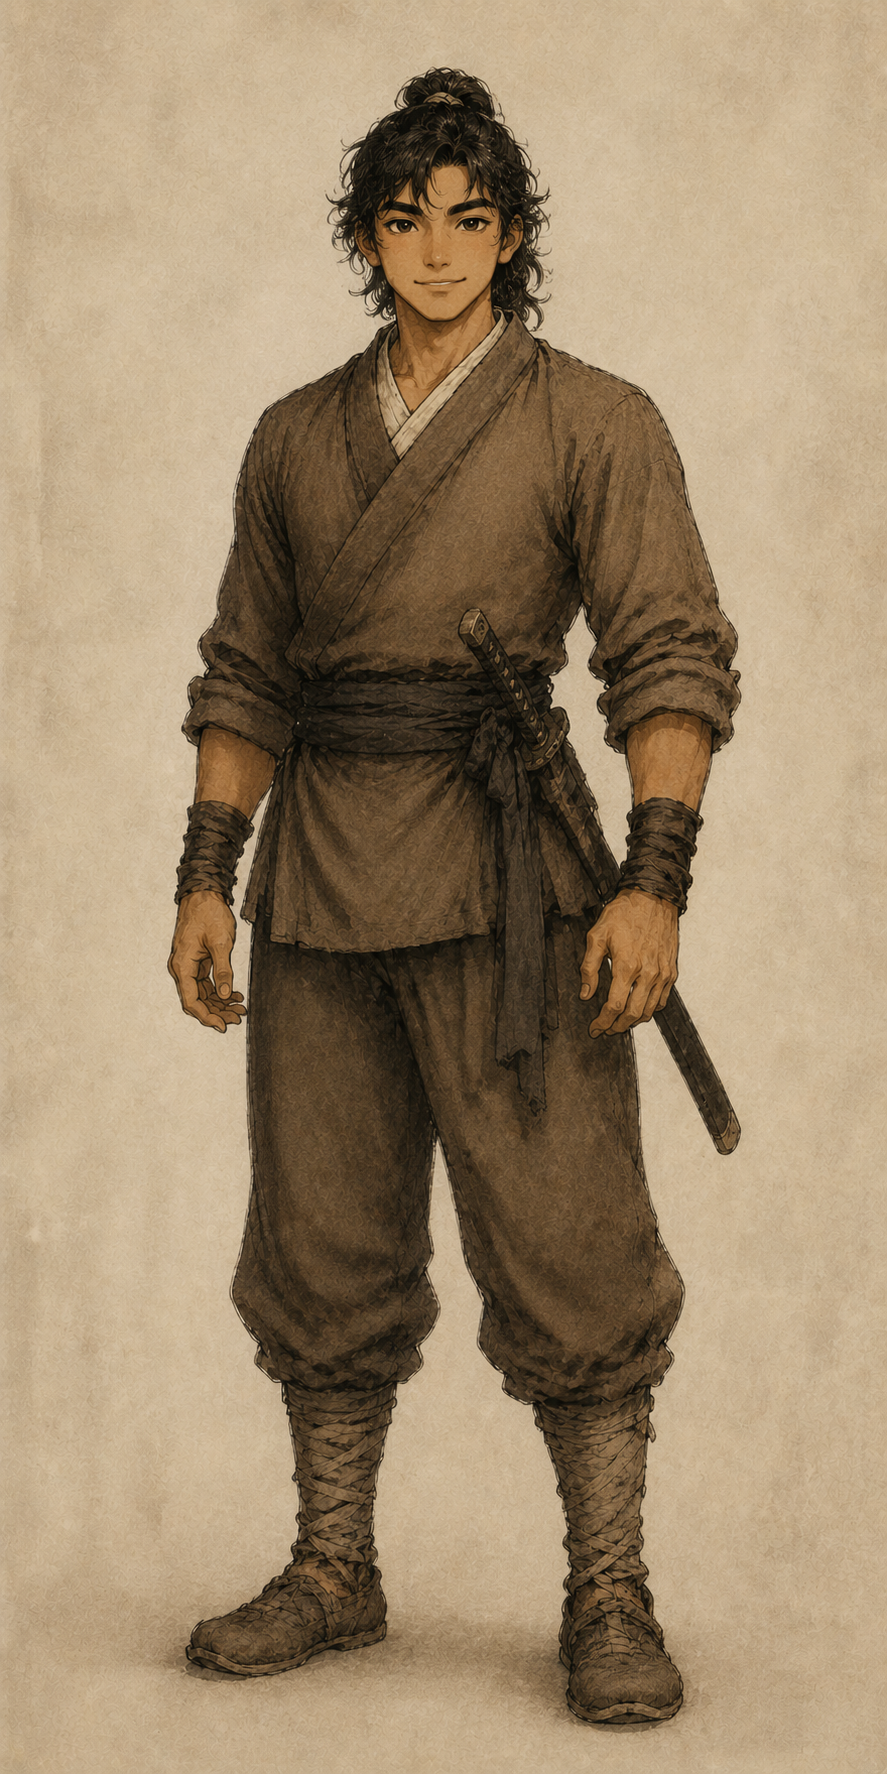
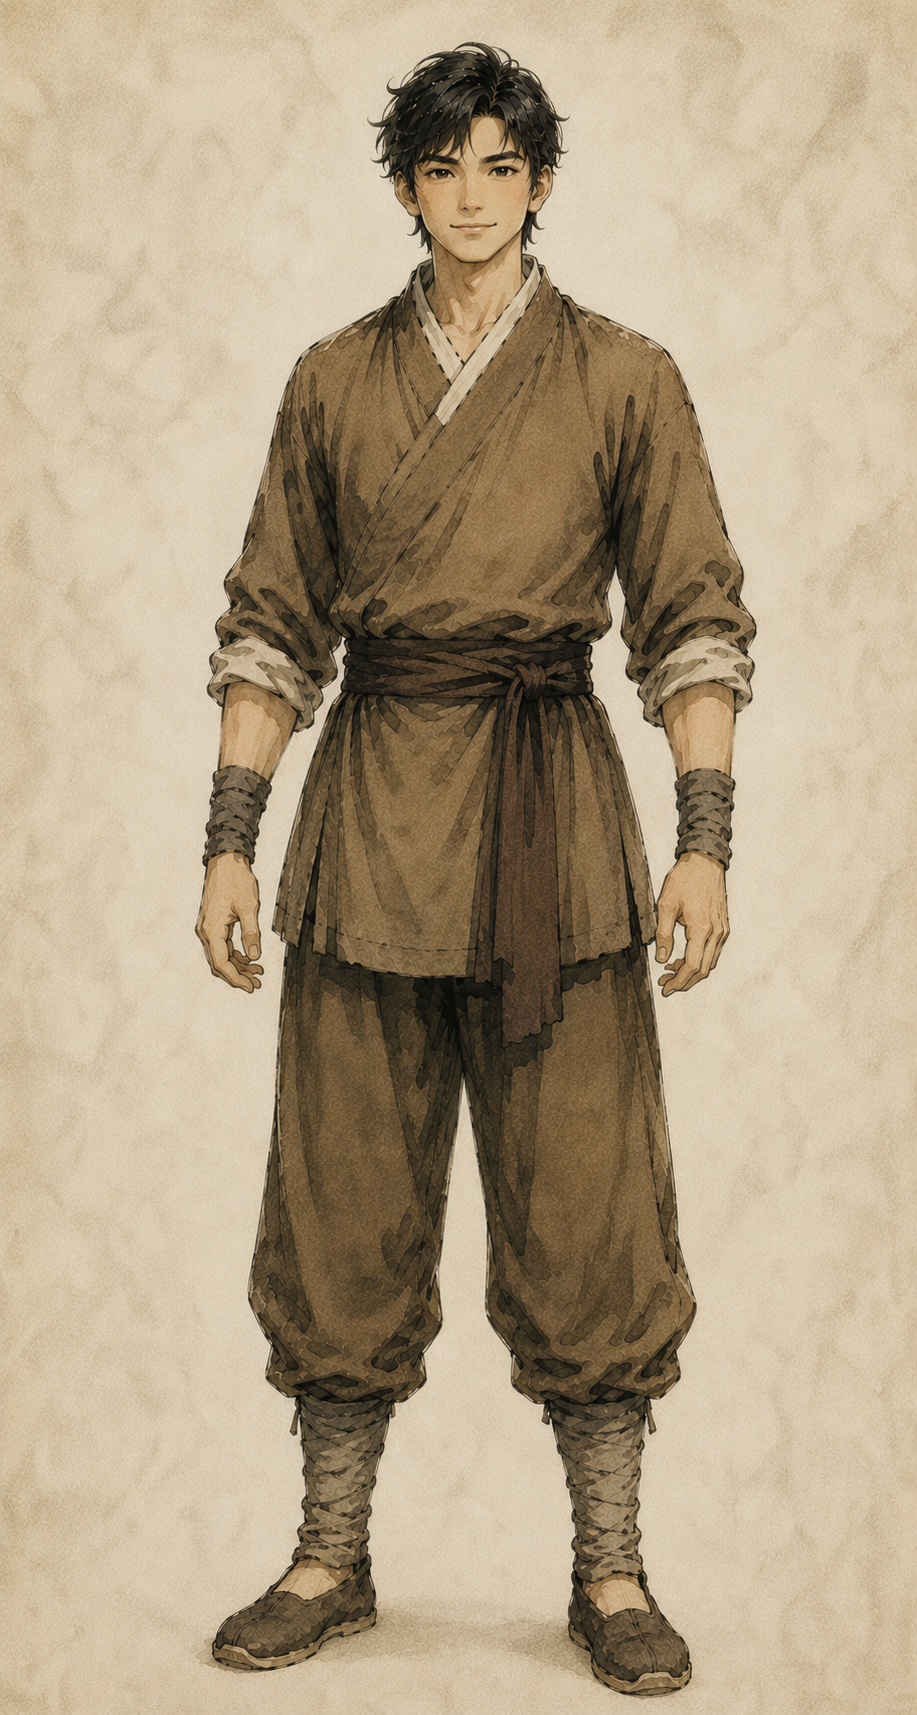
260624 :: 장철 일러스트 수묵담채 확정본 교체 + 무기 규칙 도입
장철 기준 전신·인게임 초상을 수묵담채(먹 베이스+은은한 채색) 흑백먹→채색
확정본으로 전면 교체(이전 수묵+웹툰 하이브리드 폐기). 9회 반복으로 확정:
우직+정직하되 수려한 동양(한국) 미남 · 자연 동양인 피부 · 약간 웨이브 흑발 ·
다부진 체격 · 전 연령 무기 없음.
- _ref/jang-cheol{,-child,-adult}.png (전신, 선택화면)
- disciples/jang-cheol{,-child,-adult}.png (상체 55% 크롭, 인게임)

무기 규칙(신규 확정): 기본 일러스트는 전 캐릭터·전 연령 무기 없이 맨손
(검·권·장 등 어떤 무공으로도 성장 → 무기 박으면 빌드 제약). 무기는 별도
전투 일러스트에서 무공 카테고리별로만. _캐릭터_시트.md·_프롬프트_장철.md
화풍을 수묵담채로 갱신 + 무기 규칙 명시. (정본 자산표/외형 잠금은 gitignore
docs/disciples 에 반영.)

코드 무변경(파일 경로 동일 — 이미지 내용만 교체). 컷씬은 세피아 유지.

Claude-Session: https://claude.ai/code/session_019qhCgnJo1uALTDYA7kb8Sk

diff --git a/assets/images/cutscenes/_캐릭터_시트.md b/assets/images/cutscenes/_캐릭터_시트.md
@@ -3,29 +3,47 @@
 > docs/20 컷씬 시스템. **같은 캐릭터는 어느 컷씬에서도 같은 사람으로 보여야 한다.**
 > 그 일관성은 두 겹으로 지킨다: ① 아래 외형 블록을 **글자 그대로** 모든 프롬프트에 붙여넣기 ② 기준 이미지 레퍼런스.
 
+## 🎨 화풍 — 수묵 + 담채(淡彩) (사용자 확정 2026-06-21)
+
+**먹빛 수묵 베이스 + 은은한 담채.** 완전 흑백·세피아 단색이 아니라, 먹빛 수묵을 바탕으로 **피부 혈색과 캐릭터별 시그니처 한 색만**(예: 장철=갈색 무명옷) 옅게 얹는다. 나머지는 먹빛 농담.
+→ 무협 정통 분위기·캐릭터 일관성(색 드리프트 최소)·기존 세피아 자산(배너·UI·완성 컷씬)과의 조화를 지키면서, 매력·캐릭터 구분을 얻는 절충. 풀컬러는 일관성 난이도·기존 자산 재작업 부담으로 불채택.
+→ 기존 세피아 자산은 담채와 결이 가까워 급한 재작업 불요(점진 갱신). 신규 생성부터 담채 적용.
+
 ## ⭐ 제1원칙 — 매력이 먼저다 (사용자 확정 2026-06-11)
 
 **모든 캐릭터는 한눈에 호감 가는 매력적인 외모(무협 웹툰풍 미형)로 그린다.**
 출신·성격 같은 개성은 **분위기·표정·소품·복장**으로 표현하고, 외모 자체를 수수하게·촌스럽게 깎지 않는다.
 (예: 장철 = 시골 출신이지만 "촌스러운 아이"가 아니라 "건강미 넘치는 서글서글한 미소년". 한바람의 흉터, 이청하의 창백함도 결점이 아니라 매력 포인트로.)
 
+## ⭐ 무기 규칙 — 기본은 무기 없음 (사용자 확정 2026-06-24)
+
+**기본 일러스트(기준 전신·턴어라운드·상체 크롭·표정·선택화면)는 전 캐릭터·전 연령 "무기 없이 맨손"으로 그린다.** 한 캐릭터가 검·도·권·장·암기 등 **어떤 무공 카테고리로도 성장**할 수 있어, 기본 그림에 무기를 박으면 빌드가 제약된다. **무기는 별도 "전투 일러스트"에서 무공 카테고리별로만**(검·도·권·장·암기 …, 그 캐릭터가 실제 쓰는 카테고리만) 그린다. 정본 자산표·코드연결 = [`docs/disciples/_캐릭터_추가_체크리스트.md` §4](../../../docs/disciples/_캐릭터_추가_체크리스트.md).
+
 ## 일관성 워크플로 (이 순서로)
 
-1. **기준 전신 1장부터** — 컷씬을 그리기 전에, 캐릭터마다 "기준 전신 일러스트" 1장을 먼저 뽑는다(아래 §기준 전신 프롬프트). 얼굴·체형·복장이 마음에 들 때까지 이 1장만 반복.
-2. **모든 컷씬은 기준 이미지를 레퍼런스로** — 이미지 AI의 캐릭터 레퍼런스/이미지 참조 기능에 기준 전신 1장을 첨부하고, 프롬프트에는 같은 외형 블록을 다시 붙인다. 프롬프트만으로는 얼굴이 매번 흔들린다 — 레퍼런스가 진짜 고정핀.
-3. **외형 블록은 수정 금지** — 장면(배경·동작)만 바꾸고 외형 문단은 한 글자도 안 바꾼다. 외형을 바꾸고 싶으면 이 시트를 먼저 고치고, 기준 전신부터 다시.
-4. 기준 전신 파일은 `assets/images/cutscenes/_ref/<discipleId>.png` 로 저장(이미지 자동배치 룰 — 던져주면 정리됨).
+1. **기준 턴어라운드 시트(4방향)부터** ⭐ (2026-06-21 격상) — 컷씬·표정을 그리기 전에, 캐릭터마다 "턴어라운드 기준 시트" 1장을 먼저 뽑는다: **같은 인물을 똑같은 키·비율·복장·머리로 ① 정면 ② 좌측면 ③ 후면 ④ 우측면** 네 방향 전신을 한 장에 나란히. 앞모습 한 장보다 4방향 시트가 훨씬 강한 고정핀 — 옆·뒤 구도 컷씬에서도 같은 사람으로 유지된다. 얼굴·체형·복장이 마음에 들 때까지 이 시트만 반복. 저장: `_ref/<id>-turnaround.png`.
+2. **모든 컷씬·표정은 턴어라운드 시트를 레퍼런스로** — 이미지 AI의 캐릭터 레퍼런스/이미지 참조 기능에 턴어라운드 시트를 첨부하고(필요하면 그 장면 방향에 맞는 뷰도), 프롬프트엔 같은 외형 블록을 다시 붙인다. 프롬프트만으로는 얼굴이 매번 흔들린다 — 레퍼런스가 진짜 고정핀.
+3. **외형 블록은 수정 금지** — 장면(배경·동작)만 바꾸고 외형 문단은 한 글자도 안 바꾼다. 외형을 바꾸고 싶으면 이 시트를 먼저 고치고, 턴어라운드부터 다시.
+4. 기준 파일은 `assets/images/cutscenes/_ref/` 에 저장: 턴어라운드 `<id>-turnaround.png`(나이별 `-child`/`-adult` 접미), 단면 전신 `<id>.png`(인앱 초상 겸용). 던져주면 정리됨(이미지 자동배치 룰).
+   - (기존 4인의 단면 전신 `_ref/<id>.png`은 인앱 초상으로 계속 사용 — 턴어라운드는 *생성 레퍼런스 전용* 추가 앵커. 장철부터 턴어라운드 도입.)
 
 ## 공통 스타일 블록 (모든 프롬프트 맨 앞에)
 
-> 정통 무협 수묵화 일러스트, 무협 웹툰풍의 수려한 인물 작화. 낡은 한지 질감 배경, 세피아 먹빛 단색조, 옅은 안개와 여백. 인물의 얼굴은 또렷하고 매력적으로. 화면에 글자·한자·낙관·서명 없음. **세로 구도 9:16 — 쇼츠식 풀스크린**(인물 위쪽 3분의 2, 아래 3분의 1은 안개·여백으로 비워 앱 자막 자리).
+> 정통 무협 수묵화 일러스트, 무협 웹툰풍의 수려한 인물 작화. 낡은 한지 질감 배경, 먹빛 수묵 베이스에 은은한 담채(淡彩) — 피부 혈색과 캐릭터 시그니처 한 색만 옅게, 나머지는 먹빛 농담. 옅은 안개와 여백. 인물의 얼굴은 또렷하고 매력적으로. 화면에 글자·한자·낙관·서명 없음. **세로 구도 9:16 — 쇼츠식 풀스크린**(인물 위쪽 3분의 2, 아래 3분의 1은 안개·여백으로 비워 앱 자막 자리).
 
 ✅ **컷씬은 세로 9:16**(사용자 확정 2026-06-12 · 재확인 2026-06-14 "컷씬은 세로로"). 종전 "가로 16:10"은 폐기 — 깨달음 가로판만 레거시 보관. 기준 전신도 세로(전신 입상·배경 비움).
 **구도 안전선**: 얼굴·핵심 소품은 화면 정중앙 기준 가로·세로 모두 가운데 3분의 1 안에(폰은 좌우, 태블릿은 위아래가 잘림). 자세한 규칙은 장철 프롬프트 파일 §공통 규칙.
 
-## 진행 순서 (갱신 2026-06-14)
+## 진행 순서 (갱신 2026-06-21 — 한 캐릭터 완성 우선)
 
-장철 파일럿(깨달음·장원 컷씬까지) 확정 → **이제 9인 3단계 기준 전신 제작 단계**(사용자 지정 2026-06-14). 9인 × 유년·청소년·성년 프롬프트는 **`_프롬프트_기준전신_9인.md`**(매력 제1원칙 전원 적용, 청소년 먼저→유년·성년 ref). 컷씬 횡전개(깨달음 등)는 9인 기준 전신 확정 후. 여러 캐릭터 **컷씬** 프롬프트 동시 진행은 금지(얼굴 섞임) — 기준 전신은 독립이라 9인 묶음 OK.
+**한 캐릭터를 끝까지 완성하고 다음으로**(사용자 2026-06-21, 이미지 일관성 때문에). 옛 "9인 3단계 기준 전신 동시 제작"(2026-06-14, `_프롬프트_기준전신_9인.md`) 계획은 보류 — 캐릭터를 오가면 얼굴이 섞인다.
+
+**현재 대상 = 장철 완성**(화풍 수묵+담채). 순서:
+1. **청소년 턴어라운드 시트**(앞·왼·뒤·오른쪽 4방향, `_프롬프트_장철.md` T-1) — 1순위 앵커.
+2. 유년·성인 턴어라운드(T-2·T-3, 청소년 시트 참조).
+3. 감정 표정 세트 4종(웃음·울음·분노·슬픔).
+4. 남은 컷씬 이미지(영약 영상부터 — 프롬프트 8종 다 작성됨).
+→ 2~4 전부 턴어라운드 시트를 레퍼런스로 첨부. 장철 완성 후 같은 순서로 다음 캐릭터.
 
 ## 연령 3단계 — 유년·청소년·성인 (사용자 확정 2026-06-11)
 

diff --git a/assets/images/cutscenes/_프롬프트_장철.md b/assets/images/cutscenes/_프롬프트_장철.md
@@ -30,9 +30,31 @@
 
 ---
 
-# 기준 전신 3종 — ✅ 전부 확정 (2026-06-12)
+# 기준 턴어라운드 시트(4방향) — ⭐ 최우선 앵커 (2026-06-21 도입, 화풍=수묵+담채)
 
-`_ref/jang-cheol-child.png`(유년) · `_ref/jang-cheol.png`(청소년) · `_ref/jang-cheol-adult.png`(성인). 확정 디테일: 풍성한 곱슬 머리 + 손목·발목 천 감개, 성인은 허리에 도(刀). 재생성이 필요해지면 `_캐릭터_시트.md`의 기준 전신 프롬프트 패턴 사용.
+> 일관성 1순위 작업. 앞모습 한 장(_ref/jang-cheol.png)보다 **앞·왼·뒤·오른쪽 4방향 시트**가 훨씬 강한 고정핀 — 옆·뒤 구도 컷씬에서도 같은 사람으로 유지된다. 이 시트를 모든 컷씬·표정 생성의 레퍼런스로 첨부한다.
+> ⚠ 이건 **생성 레퍼런스 전용 도구**라 9:16이 아니라 **가로로 긴 시트**(인게임 화면 자산 아님). 저장: `_ref/jang-cheol-turnaround.png`.
+> 순서: **청소년부터** 확정 → 유년·성인은 청소년 턴어라운드를 레퍼런스로 "같은 인물의 N세 모습"으로 (`-child`/`-adult` 접미).
+
+### T-1. 청소년 턴어라운드 — `_ref/jang-cheol-turnaround.png`
+
+정통 무협 수묵화 일러스트, 무협 웹툰풍의 수려한 인물 작화. 낡은 한지 질감 배경, 먹빛 수묵 베이스에 은은한 담채(淡彩) — 피부 혈색과 갈색 무명옷에만 옅은 색, 나머지는 먹빛 농담. 한 인물의 캐릭터 기준 시트(턴어라운드): 똑같은 인물을 같은 키·같은 비율·같은 복장·같은 머리모양으로 **네 방향에서 그린 전신 입상 네 컷을 가로로 나란히** — 왼쪽부터 ① 정면 ② 좌측면(왼쪽 옆모습) ③ 후면(뒷모습) ④ 우측면(오른쪽 옆모습). 네 컷 모두 **같은 자연스러운 차렷 자세**(팔을 몸에서 살짝 떨어뜨려 두 손이 보이게), 같은 눈높이, 같은 균일한 조명. 건강한 구릿빛 피부에 어깨가 단단한, 훤칠하고 다부진 십대 중반 미소년 무인. 어깨에 닿을 듯 풍성한 곱슬 까만 머리 아래 짙은 눈썹과 서글서글한 큰 눈, 사람 좋게 시원한 미소. 크고 단단한 손. 소박하지만 깔끔하게 손질된 갈색 무명 무복, 손목과 발목에 천을 감았다. 머리부터 발끝까지 전신이 잘리지 않게, 네 인물 사이 간격을 두고. 배경은 한지 여백으로 비워 인물만, 그림자·배경 사물 없음. 가로로 긴 구도(네 컷이 한 줄에 다 들어가게). 얼굴은 또렷하고 매력적으로. 화면에 글자·한자·낙관·서명 없음.
+
+### T-2. 유년 턴어라운드 — `_ref/jang-cheol-turnaround-child.png` (참조: T-1 청소년 시트)
+
+첨부한 청소년 턴어라운드와 같은 인물의 **여덟아홉 살 유년 모습**으로, 같은 4방향(정면·좌측면·후면·우측면) 전신 시트를 그려줘. 나이 불변 앵커 유지(풍성한 곱슬 까만 머리·짙은 눈썹·서글서글한 큰 눈·구릿빛 피부·갈색 무명옷). 건강한 구릿빛 피부의 또랑또랑한 여덟아홉 살 사내아이, 양 볼이 살짝 통통한 해맑은 웃음, 또래보다 단단한 몸. 화풍·구도·담채·배경 규칙은 T-1과 동일. 화면에 글자·낙관 없음.
+
+### T-3. 성인 턴어라운드 — `_ref/jang-cheol-turnaround-adult.png` (참조: T-1 청소년 시트)
+
+첨부한 청소년 턴어라운드와 같은 인물의 **이십대 초반 성인 모습**으로, 같은 4방향 전신 시트를 그려줘. 나이 불변 앵커 유지. 떡 벌어진 어깨에 키 크고 듬직한 잘생긴 청년 무인, 풍성한 곱슬 까만 머리를 뒤로 단정히 묶고, 믿음직한 미소 — 소년 시절 선한 인상 그대로. 깔끔한 갈색 무명 무복에 손목·발목 천, 허리에 도(刀) 한 자루. 화풍·구도·담채·배경 규칙은 T-1과 동일. 화면에 글자·낙관 없음.
+
+---
+
+# 기준 전신 3종 — ✅ 수묵담채 확정본 재작업·교체 완료 (2026-06-24) — 단면(앞) 전신, 인앱 초상 겸용
+
+`_ref/jang-cheol-child.png`(유년) · `_ref/jang-cheol.png`(청소년) · `_ref/jang-cheol-adult.png`(성인) — **2026-06-24 수묵담채(먹 베이스 + 은은한 채색)로 전면 재작업·교체**(이전 수묵+웹툰 하이브리드판 폐기). 상체 크롭본은 `disciples/`(DiscipleArt upper).
+**확정 외형 앵커** — 단정한 흑발(약간의 웨이브, 과한 곱슬 X) · 짙은 눈썹 · 맑고 선한 큰 눈 · **우직하고 정직하되 수려하게 잘생긴 동양(한국) 미남**(능글·얌생이·밋밋함 전부 X) · 자연스러운 밝기의 건강한 동양인 피부(과한 태닝 X) · 다부진 체격 · 갈색 무명 무복 + 손목·발목 천.
+**전 연령 무기 없음** — 검·도 등 무기를 기본 일러스트에 넣지 않는다(무기는 전투 일러스트에서 무공 카테고리별로만; 무기 규칙 정본 = [`docs/disciples/_캐릭터_추가_체크리스트.md` §4](../../../docs/disciples/_캐릭터_추가_체크리스트.md)). 화풍 정본 = `_캐릭터_시트.md`(수묵담채). 턴어라운드는 *생성 레퍼런스 전용* 추가 앵커. **컷씬은 세피아 수묵+웹툰 유지**(초상=수묵담채 / 컷씬=세피아 — 의도된 분리).
 
 ---
 
